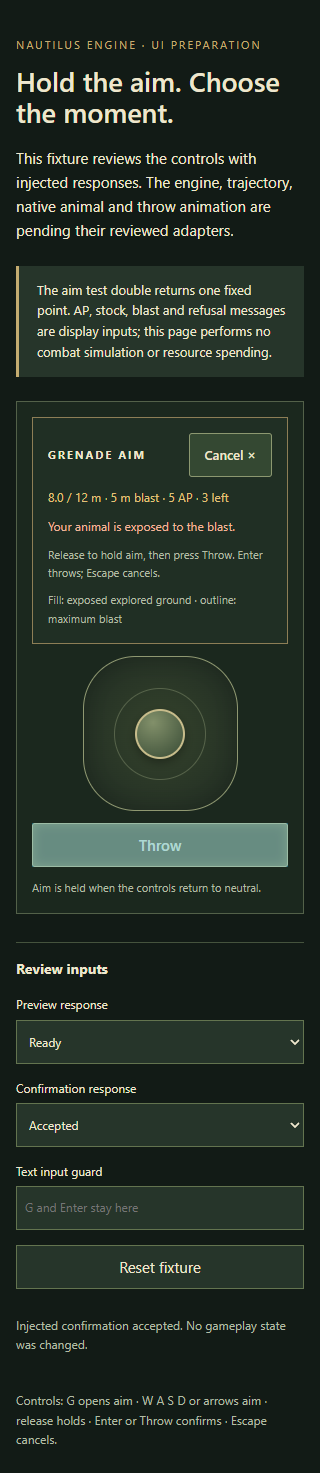
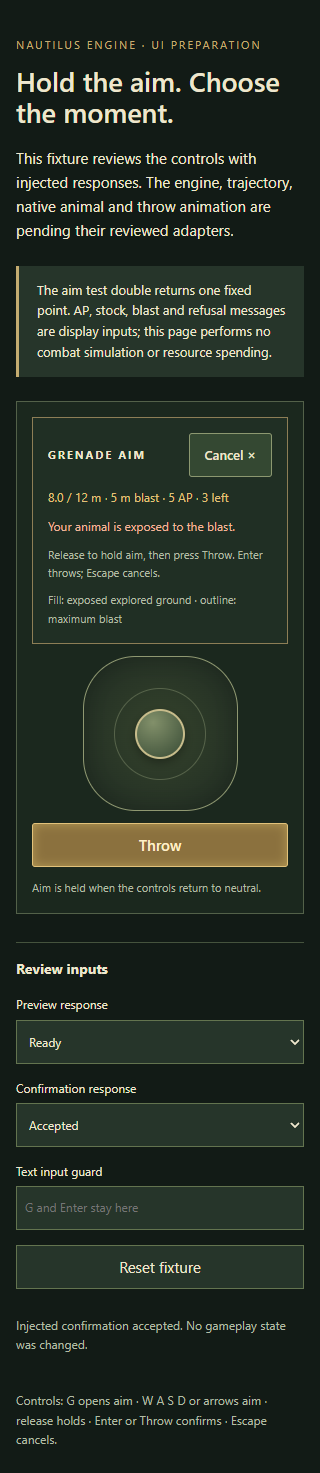
Guard grenade controls across focus and session callbacks
(cherry picked from commit 8c8a24cfb81093624e83732d77259e932bd87ecc)

Changed region(s): [[0.0938, 0.5309, 0.9062, 0.5933]]

diff --git a/packages/grenade-ui/controls.js b/packages/grenade-ui/controls.js
@@ -17,7 +17,7 @@ export function mountGrenadeControls(container,{
  const stick=make('div','gc-stick');stick.tabIndex=0;stick.setAttribute('role','group');stick.setAttribute('aria-label','Grenade aim thumbstick. Direction aims; full displacement reaches maximum range. Release to hold aim. Keyboard: W A S D or arrows.');
  const ring=make('div','gc-ring'),knob=make('div','gc-knob');stick.append(ring,knob);
  const status=make('p','gc-status'),retry=make('button','gc-retry','Retry');status.setAttribute('role','status');status.setAttribute('aria-live','polite');retry.type='button';retry.hidden=true;element.append(panel,stick,trigger,status,retry);container.append(element);
- const removers=[],keys=new Set();let pointer=null,busy=false,disposed=false,focused=true,pressed=false,fault=null,pending=null,retryAbort=null,lastIdentity=null,lastPreview=null;
+ const removers=[],keys=new Set();let pointer=null,triggerPointer=null,busy=false,disposed=false,focused=true,pressed=false,closing=false,preparing=false,fault=null,pending=null,retryAbort=null,lastIdentity=null,lastPreview=null;
  const identityOf=value=>[value.actorId,value.controlEpoch,value.sessionKey];
  const changedSubject=value=>lastIdentity&&identityOf(value).some((part,index)=>part!==lastIdentity[index]);
  const point=()=>aim.point?{x:aim.point.x,y:aim.point.y}:null;
@@ -29,20 +29,23 @@ export function mountGrenadeControls(container,{
   if(!value||!value.origin||![value.origin.x,value.origin.y,value.range,value.cost].every(Number.isFinite)||value.range<=0||value.cost<0||!Number.isInteger(value.stock)||value.stock<0)throw Error('Connect a valid grenade context: origin, range, stock and cost.');
   return value;
  }
- function resetInput(){
-  keys.clear();const old=pointer;pointer=null;pressed=false;
+ function resetStick(){
+  const old=pointer;pointer=null;
   if(old!==null&&stick.hasPointerCapture(old))stick.releasePointerCapture(old);
   knob.style.transform='translate(-50%,-50%)';
  }
- function blocked(event){
-  return event.defaultPrevented||event.isComposing||event.ctrlKey||event.altKey||event.metaKey||
-   event.target?.closest?.('input,textarea,select,[contenteditable]:not([contenteditable=false])')||
-   [...doc.querySelectorAll('dialog[open],[role=dialog][aria-modal=true]')].some(node=>!node.closest('[hidden],[inert]'));
- }
- function endAim({linger=0,force=false}={}){
+ function resetInput(){keys.clear();triggerPointer=null;pressed=false;resetStick();}
+ const editable=node=>node?.closest?.('input,textarea,select,[contenteditable]:not([contenteditable=false])');
+ const modalOpen=()=>[...doc.querySelectorAll('dialog[open],[role=dialog][aria-modal=true]')].some(node=>!node.closest('[hidden],[inert]'));
+ function inputBlocked(){const active=doc.activeElement;return !!(editable(active)||modalOpen()||(typeof keyboardTarget.contains==='function'&&!keyboardTarget.contains(active)));}
+ function blocked(event){return event.defaultPrevented||event.isComposing||event.ctrlKey||event.altKey||event.metaKey||editable(event.target)||modalOpen();}
+ function endAim({linger=0,force=false,keepLinger=()=>true}={}){
   if((busy&&!force)||!aim.active)return false;
-  resetInput();aim.cancel();lastPreview=null;
-  for(const callback of [()=>onModeChange(false),()=>onAimEnd({linger})])try{callback();}catch(error){setFault(error,'presentation');}
+  resetInput();aim.cancel();lastPreview=null;closing=true;
+  try{
+   try{onModeChange(false);}catch(error){if(!disposed)setFault(error,'presentation');}
+   if(!disposed)try{onAimEnd({linger:keepLinger()?linger:0});}catch(error){if(!disposed)setFault(error,'presentation');}
+  }finally{closing=false;}
   render();return true;
  }
  function evaluate(value,notify){
@@ -56,7 +59,7 @@ export function mountGrenadeControls(container,{
   if(disposed)return;
   let value;
   try{value=read();}catch(error){setFault(error,'context');value={origin:{x:0,y:0},range:0,cost:0,stock:0,canControl:false,canAim:false,reason:error.message};}
-  const adjusting=pointer!==null||keys.size>0,ready=!!(aim.active&&aim.point&&lastPreview?.ok&&!adjusting&&!pressed&&!busy&&!fault&&value.canControl&&!value.paused&&!value.loading&&!doc.hidden&&focused);
+  const adjusting=pointer!==null||keys.size>0,ready=!!(aim.active&&aim.point&&lastPreview?.ok&&!adjusting&&!pressed&&!busy&&!fault&&value.canControl&&!value.paused&&!value.loading&&!doc.hidden&&focused&&!inputBlocked());
   panel.hidden=stick.hidden=!aim.active;trigger.textContent=aim.active?'Throw':'Aim grenade';trigger.dataset.action=aim.active?'confirm':'aim';trigger.dataset.ready=String(ready);
   trigger.disabled=!!(busy||fault||!value.canControl||value.loading||value.paused);
   trigger.setAttribute('aria-pressed',String(!!aim.active));trigger.setAttribute('aria-label',(aim.active?'Throw grenade':'Aim grenade')+'. '+value.stock+' grenades remaining. '+value.cost+' AP.');
@@ -64,7 +67,7 @@ export function mountGrenadeControls(container,{
   detail.textContent=aim.point&&lastPreview?(Number.isFinite(lastPreview.distance)?lastPreview.distance.toFixed(1):'—')+' / '+value.range+' m · '+(Number.isFinite(lastPreview.blast)?lastPreview.blast:'—')+' m blast · '+value.cost+' AP · '+value.stock+' left':'Move the joystick to aim · '+value.cost+' AP · '+value.stock+' left';
   const reason=lastPreview?.reason||value.reason||'',danger=lastPreview?.selfDanger?'Your animal is exposed to the blast.':'';
   warning.textContent=[reason,danger].filter(Boolean).join('. ');warning.hidden=!warning.textContent;
-  const readiness=adjusting?'Release the aim controls, then confirm':!aim.point&&aim.active?'Choose a landing point with the joystick':reason;
+  const readiness=inputBlocked()?'Return focus to the grenade controls':adjusting?'Release the aim controls, then confirm':!aim.point&&aim.active?'Choose a landing point with the joystick':reason;
   trigger.title=ready?'Ready to throw':readiness||'Aim grenade';
   trigger.setAttribute('aria-description',ready?'Ready to throw. Yellow light pulses.':readiness);
   status.textContent=busy?'Confirming throw…':fault?fault.message:aim.active?'Aim is held when the controls return to neutral.':value.reason||'Aim a grenade without changing your equipped weapon.';
@@ -76,54 +79,59 @@ export function mountGrenadeControls(container,{
   const identity=identityOf(value);
   if(!busy&&lastIdentity&&(changedSubject(value)||!value.canControl)){if(aim.active)endAim({force:true});}
   lastIdentity=identity;
-  if(value.paused||value.loading||doc.hidden||!focused)resetInput();
+  if(value.paused||value.loading||doc.hidden||!focused||inputBlocked())resetInput();
   try{evaluate(value,notify);}catch(error){setFault(error,'preview');}
   render();
  }
  function arm(){
-  if(disposed||busy||fault||aim.active)return false;
-  try{const value=read();lastIdentity=identityOf(value);if(!value.canControl||!value.canAim||value.loading||value.paused||doc.hidden||!focused){render();return false;}
-   resetInput();aim.start();onModeChange(true);refresh();stick.focus({preventScroll:true});return true;
+  if(disposed||closing||preparing||busy||fault||aim.active)return false;
+  try{const value=read();lastIdentity=identityOf(value);if(!value.canControl||!value.canAim||value.loading||value.paused||doc.hidden||!focused||modalOpen()){render();return false;}
+   resetInput();aim.start();onModeChange(true);if(disposed)return false;refresh();if(!aim.active||disposed)return false;stick.focus({preventScroll:true});return true;
   }catch(error){endAim({force:true});setFault(error,'arm');render();return false;}
  }
  async function commit(){
-  if(disposed||busy||fault||!aim.active||!aim.point||pointer!==null||keys.size||pressed)return false;
-  const landing=point();let subject;
+  if(disposed||closing||preparing||busy||fault||!aim.active||!aim.point||pointer!==null||keys.size||pressed)return false;
+  const landing=point();let subject;preparing=true;
   try{
-   const value=read();if(changedSubject(value)){endAim({force:true});return false;}subject={actorId:value.actorId,sessionKey:value.sessionKey};if(!value.canControl||value.paused||value.loading||doc.hidden||!focused)return false;
-   evaluate(value,true);if(!lastPreview.ok){render();return false;}
-  }catch(error){setFault(error,'preview');render();return false;}
+   const value=read();if(changedSubject(value)){endAim({force:true});return false;}subject={actorId:value.actorId,sessionKey:value.sessionKey,controlEpoch:value.controlEpoch};if(!value.canControl||value.paused||value.loading||doc.hidden||!focused||inputBlocked()){resetInput();render();return false;}
+   evaluate(value,true);if(disposed)return false;const current=read();if(current.actorId!==subject.actorId||current.sessionKey!==subject.sessionKey||current.controlEpoch!==subject.controlEpoch){endAim({force:true});return false;}if(!current.canControl||current.paused||current.loading||doc.hidden||!focused||inputBlocked()){resetInput();render();return false;}if(fault||!aim.active||!lastPreview?.ok){render();return false;}
+  }catch(error){if(!disposed){setFault(error,'preview');render();}return false;}finally{preparing=false;}
   busy=true;resetInput();render();
   const task=(async()=>{
    let result;
    try{
     // Host must stage, atomically persist/adopt and deduplicate before ok:true.
     result=await confirm(landing);
-    if(disposed)return false;
+    if(disposed)return result?.ok===true;
     if(!result||typeof result.ok!=='boolean')throw Error('Confirmation must return a known committed or refused result.');
    }catch(error){if(!disposed){busy=false;setFault(error,'confirm');render();}return false;}
    if(!result.ok){lastPreview={...lastPreview,ok:false,reason:result.reason||'Throw was refused.'};busy=false;render();return false;}
-   // A known commit remains successful even when context or playback fails.
-   busy=false;let sameSubject=false;
-   try{const current=read();sameSubject=current.actorId===subject.actorId&&current.sessionKey===subject.sessionKey;}
-   catch(error){setFault(Error('Throw committed; controls could not refresh. '+error.message),'committed-context');}
-   endAim({linger:sameSubject?800:0});
-   if(sameSubject)try{await onAccepted(result);}catch(error){if(!disposed)setFault(Error('Throw committed; playback is unavailable. '+error.message),'playback');}
+   // A known commit remains successful even if host cleanup replaces/disposes UI.
+   busy=false;
+   const remainsCurrent=()=>{
+    if(disposed)return false;
+    try{const current=read();return current.actorId===subject.actorId&&current.sessionKey===subject.sessionKey;}
+    catch(error){setFault(Error('Throw committed; controls could not refresh. '+error.message),'committed-context');return false;}
+   };
+   endAim({linger:800,keepLinger:remainsCurrent});
+   if(remainsCurrent())try{await onAccepted(result);}catch(error){if(!disposed)setFault(Error('Throw committed; playback is unavailable. '+error.message),'playback');}
    if(!disposed)render();return true;
   })();
   pending=task;try{return await task;}finally{if(pending===task)pending=null;}
  }
  function aimPointer(event){
-  const value=read();if(changedSubject(value)||!value.canControl||value.loading||value.paused){endAim({force:true});return;}const rect=stick.getBoundingClientRect(),limit=rect.width*.3,dx=event.clientX-rect.left-rect.width/2,dy=event.clientY-rect.top-rect.height/2,n=Math.hypot(dx,dy),scale=Math.min(1,limit/Math.max(1,n));
+  const value=read();if(changedSubject(value)||!value.canControl){endAim({force:true});return;}if(value.loading||value.paused||doc.hidden||!focused||inputBlocked()){resetInput();render();return;}const rect=stick.getBoundingClientRect(),limit=rect.width*.3,dx=event.clientX-rect.left-rect.width/2,dy=event.clientY-rect.top-rect.height/2,n=Math.hypot(dx,dy),scale=Math.min(1,limit/Math.max(1,n));
   const offset=n<limit*.12?{x:0,y:0}:{x:dx*scale/limit,y:dy*scale/limit};
   knob.style.transform='translate(calc(-50% + '+offset.x*limit+'px),calc(-50% + '+offset.y*limit+'px))';
   aim.aim(value.origin,offset,value.range);refresh();
  }
- listen(stick,'pointerdown',event=>{if(event.button!==0||pointer!==null||!aim.active||busy||fault)return;try{const value=read();if(!value.canControl||value.loading||value.paused)return;event.preventDefault();pointer=event.pointerId;stick.setPointerCapture(pointer);aimPointer(event);}catch(error){setFault(error,'aim');render();}});
+ listen(stick,'pointerdown',event=>{if(event.button!==0||pointer!==null||!aim.active||busy||fault||modalOpen())return;stick.focus({preventScroll:true});try{const value=read();if(!value.canControl||value.loading||value.paused)return;event.preventDefault();pointer=event.pointerId;stick.setPointerCapture(pointer);aimPointer(event);}catch(error){setFault(error,'aim');render();}});
  listen(stick,'pointermove',event=>{if(event.pointerId===pointer)try{aimPointer(event);}catch(error){setFault(error,'aim');render();}});
- for(const type of ['pointerup','pointercancel','lostpointercapture'])listen(stick,type,event=>{if(event.pointerId===pointer){resetInput();render();}});
- listen(trigger,'pointerdown',()=>{pressed=true;render();});for(const type of ['pointerup','pointercancel','lostpointercapture'])listen(trigger,type,()=>{pressed=false;render();});
- listen(trigger,'click',()=>{if(aim.active)void commit();else arm();});listen(cancel,'click',()=>endAim());
+ for(const type of ['pointerup','pointercancel','lostpointercapture'])listen(stick,type,event=>{if(event.pointerId===pointer){resetStick();render();}});
+ listen(trigger,'pointerdown',event=>{if(event.button!==0)return;triggerPointer=event.pointerId;pressed=true;render();});
+ for(const type of ['pointerup','pointercancel'])listen(win,type,event=>{if(event.pointerId===triggerPointer){triggerPointer=null;pressed=false;render();}},true);
+ listen(trigger,'lostpointercapture',()=>{triggerPointer=null;pressed=false;render();});
+ listen(trigger,'click',()=>{trigger.focus({preventScroll:true});if(aim.active)void commit();else arm();});listen(cancel,'click',()=>endAim());
  const movementKeys=new Set(['w','a','s','d','arrowup','arrowdown','arrowleft','arrowright']);
  listen(keyboardTarget,'keydown',event=>{
   if(disposed||blocked(event))return;const key=event.key.toLowerCase(),button=event.target.closest?.('button');
@@ -133,15 +141,16 @@ export function mountGrenadeControls(container,{
   if(key==='escape'){event.preventDefault();endAim();return;}
   if(movementKeys.has(key)){event.preventDefault();keys.add(key);render();}
  });
+ listen(doc,'focusin',()=>{if(inputBlocked())resetInput();render();});
  listen(win,'keyup',event=>{keys.delete(event.key.toLowerCase());render();});
  listen(win,'blur',()=>{focused=false;resetInput();render();});listen(win,'focus',()=>{focused=true;refresh();});listen(doc,'visibilitychange',()=>{resetInput();render();});
  listen(retry,'click',()=>{if(busy||!fault||typeof onRetry!=='function')return;const phase=fault.phase;busy=true;render();retryAbort?.abort();retryAbort=new AbortController();
-  pending=Promise.resolve().then(()=>onRetry({phase,signal:retryAbort.signal})).then(result=>{if(disposed)return;if(result?.ok!==true)throw Error(result?.reason||'Retry must confirm that resources and the current commit outcome are reconciled.');fault=null;busy=false;if(phase==='confirm')endAim({force:true});refresh();}).catch(error=>{if(!disposed){busy=false;setFault(error,phase);render();}}).finally(()=>{if(!disposed){busy=false;render();}pending=null;});
+  const task=Promise.resolve().then(()=>onRetry({phase,signal:retryAbort.signal})).then(result=>{if(disposed)return;if(result?.ok!==true)throw Error(result?.reason||'Retry must confirm that resources and the current commit outcome are reconciled.');fault=null;busy=false;if(phase==='confirm')endAim({force:true});refresh();}).catch(error=>{if(!disposed){busy=false;setFault(error,phase);render();}}).finally(()=>{if(!disposed){busy=false;render();}if(pending===task)pending=null;});pending=task;
  });
  render();
  return Object.freeze({
   element,panel,stick,trigger,refresh,arm,cancel:()=>endAim(),confirm:commit,
-  advanceAim(seconds){if(disposed||!aim.active||busy||fault||!keys.size)return;try{const value=read();if(changedSubject(value)){endAim({force:true});return;}if(value.paused||value.loading||!value.canControl||doc.hidden||!focused){resetInput();render();return;}const x=(keys.has('d')||keys.has('arrowright')?1:0)-(keys.has('a')||keys.has('arrowleft')?1:0),y=(keys.has('s')||keys.has('arrowdown')?1:0)-(keys.has('w')||keys.has('arrowup')?1:0);aim.nudge(value.origin,{x,y},value.range,Math.min(.05,Math.max(0,Number.isFinite(seconds)?seconds:0)));refresh();}catch(error){setFault(error,'aim');render();}},
+  advanceAim(seconds){if(disposed||!aim.active||busy||fault||!keys.size)return;try{const value=read();if(changedSubject(value)){endAim({force:true});return;}if(value.paused||value.loading||!value.canControl||doc.hidden||!focused||inputBlocked()){resetInput();render();return;}const x=(keys.has('d')||keys.has('arrowright')?1:0)-(keys.has('a')||keys.has('arrowleft')?1:0),y=(keys.has('s')||keys.has('arrowdown')?1:0)-(keys.has('w')||keys.has('arrowup')?1:0);aim.nudge(value.origin,{x,y},value.range,Math.min(.05,Math.max(0,Number.isFinite(seconds)?seconds:0)));refresh();}catch(error){setFault(error,'aim');render();}},
   get state(){return {active:!!aim.active,point:point(),adjusting:pointer!==null||keys.size>0,busy,ready:trigger.dataset.ready==='true',fault:fault?{...fault}:null};},
   settled(){return pending||Promise.resolve();},
   dispose(){if(disposed)return;disposed=true;retryAbort?.abort();resetInput();aim.cancel();for(const callback of [()=>onModeChange(false),()=>onAimEnd({linger:0})])try{callback();}catch(error){report(error,'dispose');}removers.forEach(remove=>remove());element.remove();}

diff --git a/examples/grenade-controls-preparation.js b/examples/grenade-controls-preparation.js
@@ -6,9 +6,9 @@ function create(options={}){
  const metrics={aim:[],nudge:[],confirm:[],mode:[],preview:[],end:[],accepted:[],errors:[],retry:0,retryAborted:false};let resolveConfirm,resolveRetry;
  // A spy, deliberately not another implementation of Farmyard aiming or combat.
  const aim={active:false,point:null,start(){this.active=true;this.point=null;},cancel(){this.active=false;this.point=null;},aim(origin,offset,range){metrics.aim.push({origin:{...origin},offset:{...offset},range});if(offset.x||offset.y)this.point={x:12,y:8};return this.point;},nudge(origin,direction,range,dt){metrics.nudge.push({origin:{...origin},direction:{...direction},range,dt});if(direction.x||direction.y)this.point={x:12,y:8};return this.point;}};
- const ui=mountGrenadeControls(root,{aim,context(){if(config.invalidContext)throw Error('Injected context unavailable.');return {...host,origin:{...host.origin}};},preview(point){const result={ok:true,reason:'',cost:host.cost,distance:8,blast:5,discounted:host.cost===2.5,selfDanger:false};if(config.previewMode==='blocked')Object.assign(result,{ok:false,reason:'Throw path is blocked'});if(config.previewMode==='danger')result.selfDanger=true;if(config.previewMode==='unsupported')return {ok:false,reason:'This profile does not support windows.'};return result;},async confirm(point){metrics.confirm.push({...point});if(config.confirmMode==='unknown')throw Error('Confirmation outcome unknown; reconcile before trying again.');if(config.confirmMode==='refused')return {ok:false,reason:'Not enough AP'};if(config.confirmMode==='delayed')return await new Promise(resolve=>{resolveConfirm=resolve;});if(config.breakContextOnCommit)config.invalidContext=true;return {ok:true,receipt:{id:'injected-ui-receipt'},presentation:{kind:'injected-ui-presentation'}};},onModeChange(value){metrics.mode.push(value);},onPreview(value){metrics.preview.push(value);},onAimEnd(value){metrics.end.push(value);},onAccepted(value){metrics.accepted.push(value);if(config.playbackFailure)throw Error('Injected playback failure.');log.textContent='Injected confirmation accepted. No gameplay state was changed.';},async onRetry({phase,signal}){metrics.retry++;signal.addEventListener('abort',()=>{metrics.retryAborted=true;},{once:true});if(config.retryMode==='delayed')return await new Promise((resolve,reject)=>{resolveRetry=resolve;signal.addEventListener('abort',()=>reject(Error('Injected retry cancelled.')),{once:true});});if(config.retryMode==='refused')return {ok:false,reason:'Reconciliation still pending.'};config.invalidContext=false;return {ok:true};},onError(error,{phase}){metrics.errors.push({message:error.message,phase});}});
+ const ui=mountGrenadeControls(root,{aim,context(){if(config.invalidContext)throw Error('Injected context unavailable.');return {...host,origin:{...host.origin}};},preview(point){const result={ok:true,reason:'',cost:host.cost,distance:8,blast:5,discounted:host.cost===2.5,selfDanger:false};if(config.previewMode==='blocked')Object.assign(result,{ok:false,reason:'Throw path is blocked'});if(config.previewMode==='danger')result.selfDanger=true;if(config.previewMode==='unsupported')return {ok:false,reason:'This profile does not support windows.'};return result;},async confirm(point){metrics.confirm.push({...point});if(config.confirmMode==='unknown')throw Error('Confirmation outcome unknown; reconcile before trying again.');if(config.confirmMode==='refused')return {ok:false,reason:'Not enough AP'};if(config.confirmMode==='delayed')return await new Promise(resolve=>{resolveConfirm=resolve;});if(config.breakContextOnCommit)config.invalidContext=true;return {ok:true,receipt:{id:'injected-ui-receipt'},presentation:{kind:'injected-ui-presentation'}};},onModeChange(value){metrics.mode.push(value);if(!value&&config.modeEndAction==='dispose')ui.dispose();if(!value&&config.modeEndAction==='replace')host.sessionKey='replaced-by-mode-callback';},onPreview(value){metrics.preview.push(value);const action=config.previewAction;config.previewAction=null;if(action==='dispose')ui.dispose();if(action==='replace')host.sessionKey='replaced-by-preview-callback';if(action==='phase')host.controlEpoch='replaced-by-preview-phase';if(action==='nested')void ui.confirm();},onAimEnd(value){metrics.end.push(value);if(config.aimEndAction==='dispose')ui.dispose();if(config.aimEndAction==='replace')host.sessionKey='replaced-by-camera-callback';},onAccepted(value){metrics.accepted.push(value);if(config.playbackFailure)throw Error('Injected playback failure.');log.textContent='Injected confirmation accepted. No gameplay state was changed.';},async onRetry({phase,signal}){metrics.retry++;signal.addEventListener('abort',()=>{metrics.retryAborted=true;},{once:true});if(config.retryMode==='delayed')return await new Promise((resolve,reject)=>{resolveRetry=resolve;signal.addEventListener('abort',()=>reject(Error('Injected retry cancelled.')),{once:true});});if(config.retryMode==='refused')return {ok:false,reason:'Reconciliation still pending.'};config.invalidContext=false;return {ok:true};},onError(error,{phase}){metrics.errors.push({message:error.message,phase});}});
  return {config,host,metrics,aim,ui,resolveConfirm(result){resolveConfirm?.(result);},resolveRetry(result){resolveRetry?.(result);}};
 }
-const api={reset(options={}){fixture?.ui.dispose();fixture=create(options);log.textContent='Injected controls fixture ready.';return this.snapshot();},configure(options){Object.assign(fixture.config,options);fixture.ui.refresh();},context(patch,refresh=true){Object.assign(fixture.host,patch);if(refresh)fixture.ui.refresh();},setPoint(point={x:12,y:8}){fixture.aim.point={...point};fixture.ui.refresh();},advance(seconds){fixture.ui.advanceAim(seconds);},snapshot(){return {state:fixture.ui.state,metrics:structuredClone(fixture.metrics),context:structuredClone(fixture.host)};},confirm(){return fixture.ui.confirm();},complete(result={ok:true,receipt:{id:'injected-ui-receipt'},presentation:{kind:'injected-ui-presentation'}}){fixture.resolveConfirm(result);},completeRetry(result={ok:true}){fixture.resolveRetry(result);},settled(){return fixture.ui.settled();},dispose(){fixture.ui.dispose();}};
+const api={reset(options={}){fixture?.ui.dispose();fixture=create(options);log.textContent='Injected controls fixture ready.';return this.snapshot();},configure(options,refresh=true){Object.assign(fixture.config,options);if(refresh)fixture.ui.refresh();},context(patch,refresh=true){Object.assign(fixture.host,patch);if(refresh)fixture.ui.refresh();},setPoint(point={x:12,y:8}){fixture.aim.point={...point};fixture.ui.refresh();},advance(seconds){fixture.ui.advanceAim(seconds);},snapshot(){return {state:fixture.ui.state,metrics:structuredClone(fixture.metrics),context:structuredClone(fixture.host)};},confirm(){return fixture.ui.confirm();},complete(result={ok:true,receipt:{id:'injected-ui-receipt'},presentation:{kind:'injected-ui-presentation'}}){fixture.resolveConfirm(result);},completeRetry(result={ok:true}){fixture.resolveRetry(result);},settled(){return fixture.ui.settled();},dispose(){fixture.ui.dispose();}};
 window.grenadePreparation=api;api.reset();
 document.querySelector('#preview-mode').addEventListener('change',event=>api.configure({previewMode:event.target.value}));document.querySelector('#confirm-mode').addEventListener('change',event=>api.configure({confirmMode:event.target.value}));document.querySelector('#reset').addEventListener('click',()=>api.reset());

diff --git a/docs/ui/grenade-controls.md b/docs/ui/grenade-controls.md
@@ -18,12 +18,12 @@ Supply a DOM container, one source-exact `GrenadeAim` instance from the committe
 | `onModeChange(active)` | Gate movement/other actions and viewer aim mode; preserve accepted equipment. Restore from current host state when leaving. |
 | `onPreview({point,preview})` | Render the accepted arc, clipped blast footprint, maximum ring and self-danger state through a borrowed view. Preview work never applies consequences. |
 | `onAimEnd({linger})` | Restore camera on cancel (0 ms); a known same-session accepted throw requests the original 800 ms linger. No authority timing is implied. |
-| `onAccepted(result)` | Observe a known commit once and schedule presentation. Sync/async playback failure is reported as **committed** and cannot resubmit a grenade. Do not create authority in an animation callback. |
+| `onAccepted(result)` | Observe a known commit once and schedule presentation. Sync/async playback failure is reported as **committed** and cannot resubmit a grenade. Cleanup callbacks are followed by a fresh ownership check; disposal/session replacement suppresses playback while preserving known commit success. Do not create authority in an animation callback. |
 | `onRetry({phase,signal})` | Optional explicit resource/outcome reconciliation; return `{ok:true}` only after the current command outcome and resources are settled. Do not create a new command to retry an unknown one. Successful unknown-outcome reconciliation cancels the old aim quietly; it never plays an accepted effect again. The signal cancels UI resource retry on disposal, not a committed authority transaction. |
 | `onError(error,{phase})` | Record a UI/presentation failure. The adapter retains an actionable status. This callback cannot change an unknown outcome into a refusal. |
 | `keyboardTarget` | Defaults to the container. Focus must be inside the chosen scope. Forms, editable content and open modal dialogs suppress shortcuts. Avoid a global window target when several sessions exist. |
 
-DOM use: load the public CSS, mount the controls in a labelled focus scope, bind the callbacks above to the committed kernel/view, then dispose the mount when its session ends. The controls expose their elements for host layout/HUD-safe camera measurement. They remove only their own listeners and DOM. Disposal clears captures/held keys, cancels aim and resource retry, and restores view mode; it does not abort or roll back a pending authority command. The host must still persist/deduplicate that command after the UI has gone away.
+DOM use: load the public CSS, mount the controls in a labelled focus scope, bind the callbacks above to the committed kernel/view, then dispose the mount when its session ends. The controls expose their elements for host layout/HUD-safe camera measurement. They remove only their own listeners and DOM. Disposal clears captures/held keys, cancels aim and resource retry, and restores view mode; it does not abort or roll back a pending authority command. The host must still persist/deduplicate that command after the UI has gone away. A detached confirmation still resolves true for a known committed result; no accepted callback is delivered to that retired UI. Preview callbacks cannot reenter confirmation or switch the target actor/session before staging.
 
 ## Borrowed-scene preview
 
@@ -33,7 +33,7 @@ Proposed `./grenades/view` exports `createGrenadeOverlay(THREE,{scene,cameraFram
 
 ## Player behavior
 
-G arms. WASD/arrows or the thumbstick select a target. Enter/Throw explicitly confirms; Escape/Cancel abandons aim. Native button Enter dispatches only its click. Holding movement keys or a captured joystick pointer prevents confirmation. Pointer up/cancel/lost capture centres the visual stick while keeping the selected point; neutral does not silently throw. Blur/pause/hidden/loading clear held inputs; actor/session/turn changes retire aim. The source aim instance supplies 12% dead zone, radial range, screen-to-ground axes and diagonal normalization.
+G arms. WASD/arrows or the thumbstick select a target. Enter/Throw explicitly confirms; Escape/Cancel abandons aim. Native button Enter dispatches only its click. Holding movement keys or a captured joystick pointer prevents confirmation. Pointer up/cancel/lost capture centres the visual stick while keeping the selected point; neutral does not silently throw. Moving focus into a form, outside the keyboard scope or into a modal clears held inputs; aim sampling and confirmation recheck that focus before acting. Blur/pause/hidden/loading clear held inputs; actor/session/turn changes retire aim. The source aim instance supplies 12% dead zone, radial range, screen-to-ground axes and diagonal normalization.
 
 The ready yellow pulse appears only for a valid held target after input release, in a visible, focused, loaded, controllable session. Reduced-motion uses a steady ready light. Buttons are at least 44 CSS px; the fixed 155 px joystick reflows below the panel on phones. Theme hooks are `--gc-panel`, `--gc-ink`, `--gc-muted` and `--gc-accent`. Retain clear danger/refusal text when changing appearance. The green/paper/brass default follows Farmyard direction; another game's surrounding materials, tone and HUD hierarchy should guide its skin.
 

diff --git a/docs/reviews/2026-10-29-grenade-ui.md b/docs/reviews/2026-10-29-grenade-ui.md
@@ -19,10 +19,16 @@ Include the builder card and its two JSON source/comparison records as package d
 - Required `npm run check`, `npm test` (360), `npm run test:upstream` (32), `npm run build` (385 checked module paths) pass.
 - Three overlay tests use actual shared Three: accepted-coordinate mapping, source-helper delegation, refusal/malformed geometry and exactly-once owned cleanup with borrowed scene/art surviving.
 - Eight built-browser groups pass. They cover scoped real keyboard/mouse/touch, held-target neutral, explicit confirm/cancel, injected pointer-cancel/window blur, forms/modal, displayed cost/stock/refusal/danger, unknown-outcome reconciliation, known-commit playback/context faults, stale/late session and disposal, 44 px controls, 390 px phone, 320 px reflow and reduced motion.
-- The built fixture requests four non-navigation resources, 22,367 encoded bytes / 23,567 transfer bytes in the local no-cache review, with zero unexpected console/page/resource errors. These counts exclude document navigation and all native/engine content; they are not a renderer or phone performance benchmark. Later source comments add attribution only; runtime browser behavior is unchanged.
-- Two isolated helper lifetimes were verified stopped by PID plus creation time and closed ports. The first caught a fixture favicon 404; the corrected built rerun is clean. No retained helper/service exists.
+- The built fixture requests four non-navigation resources, 24,816 encoded bytes / 26,016 transfer bytes in the local no-cache review, with zero unexpected console/page/resource errors. These counts exclude document navigation and all native/engine content; they are not a renderer or phone performance benchmark.
+- Five isolated helper lifetimes were verified stopped by PID plus creation time and closed ports. The first caught a fixture favicon 404; the corrected built rerun is clean. No retained helper/service exists.
 
 [Desktop controls](evidence/grenade-controls-preparation/desktop-aim.png), [phone controls](evidence/grenade-controls-preparation/phone-aim.png), [320 px controls](evidence/grenade-controls-preparation/narrow-aim.png) were visually inspected. They deliberately display their injected-response scope.
+
+## Follow-on guard review
+
+Final built regressions additionally hold a key before input/modal focus, reject nested/pre-authority session replacement/disposal from `onPreview`, and retire accepted playback after `onModeChange` or `onAimEnd` replaces/disposes the owner. Known committed results remain successful even after UI disposal; no old-session accepted callback or second spend follows. Releasing a joystick does not clear a still-held keyboard key. Dragging outside Throw before release clears its pressed gate without clicking it; later Enter works once.
+
+The fixed public kernel checkpoint is now available at `c7beb44fa254b2d72657f7e3a959920216f09b35`; it will be adopted after this UI follow-on checkpoint. The native provider remains artist-owned. These UI checks continue to distinguish their spy/injected scope from the real reference binding.
 
 ## Still required for the same contribution
 
